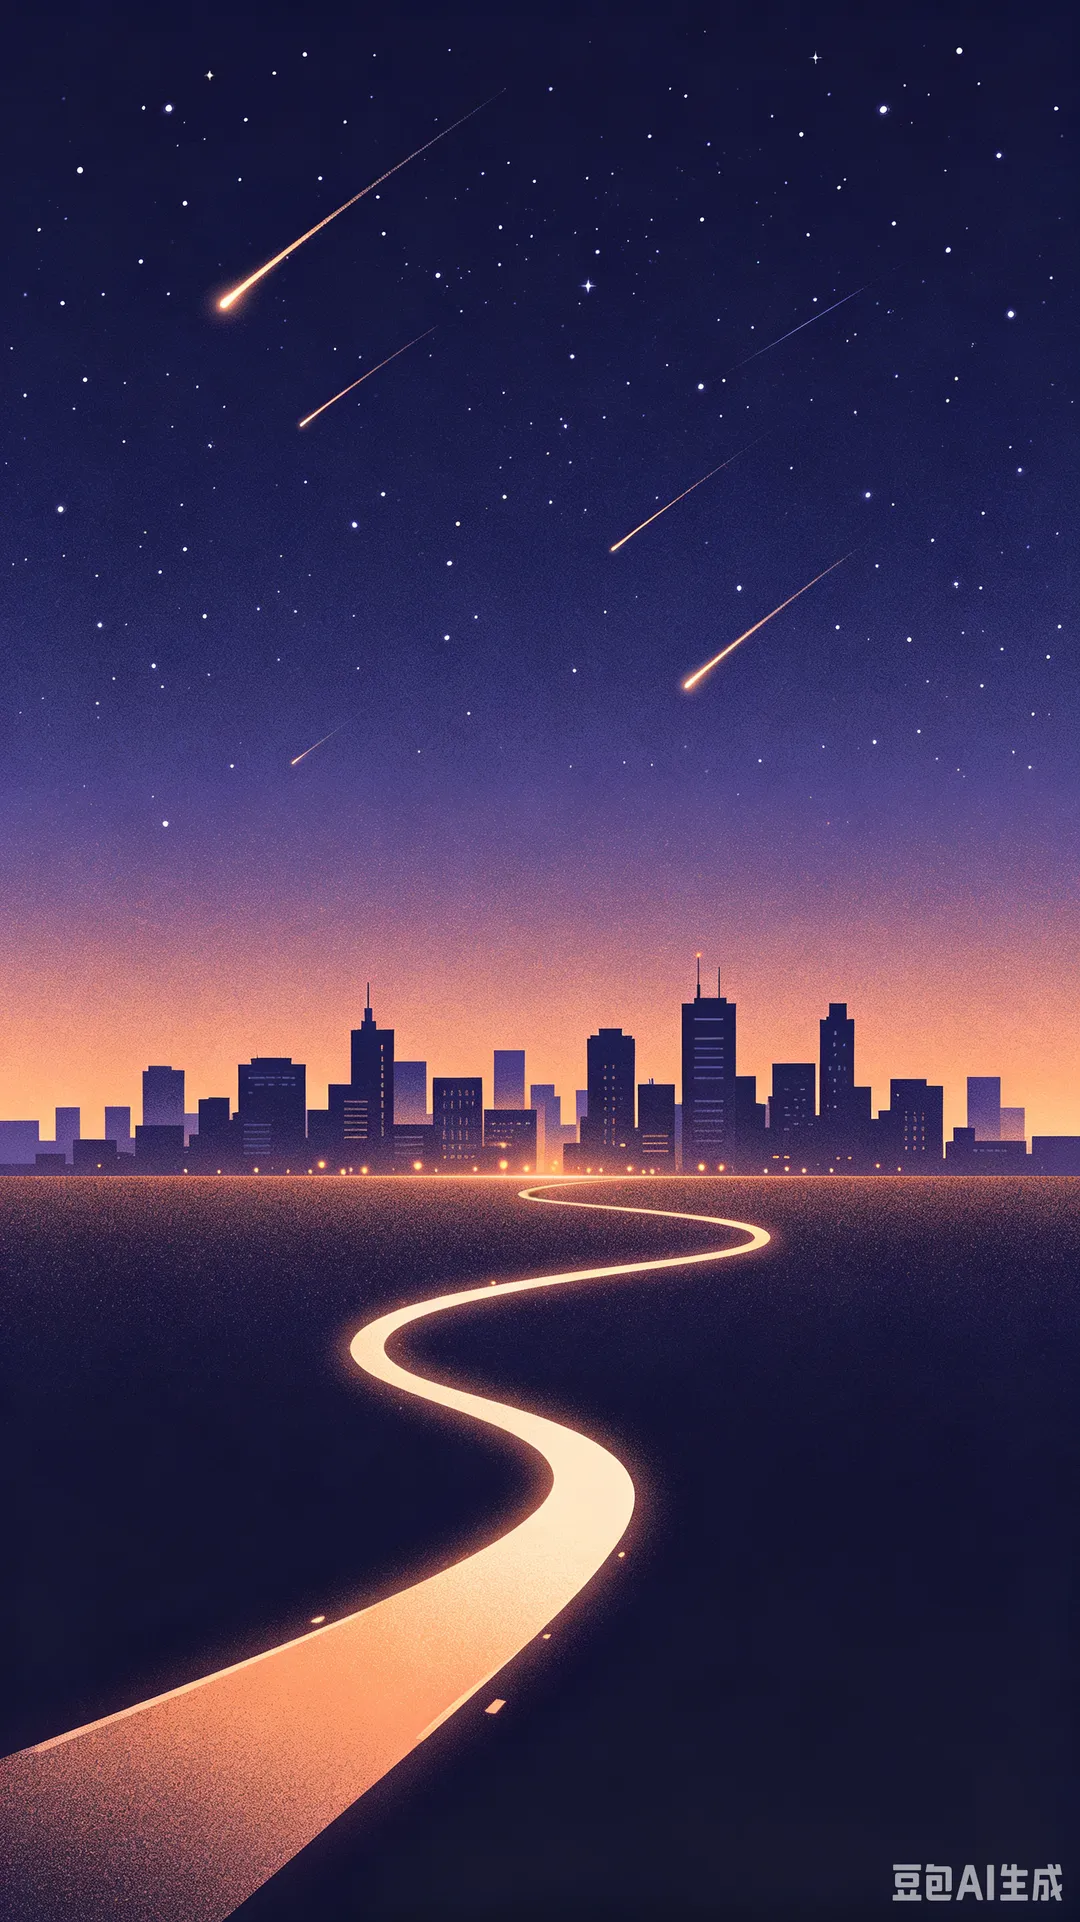
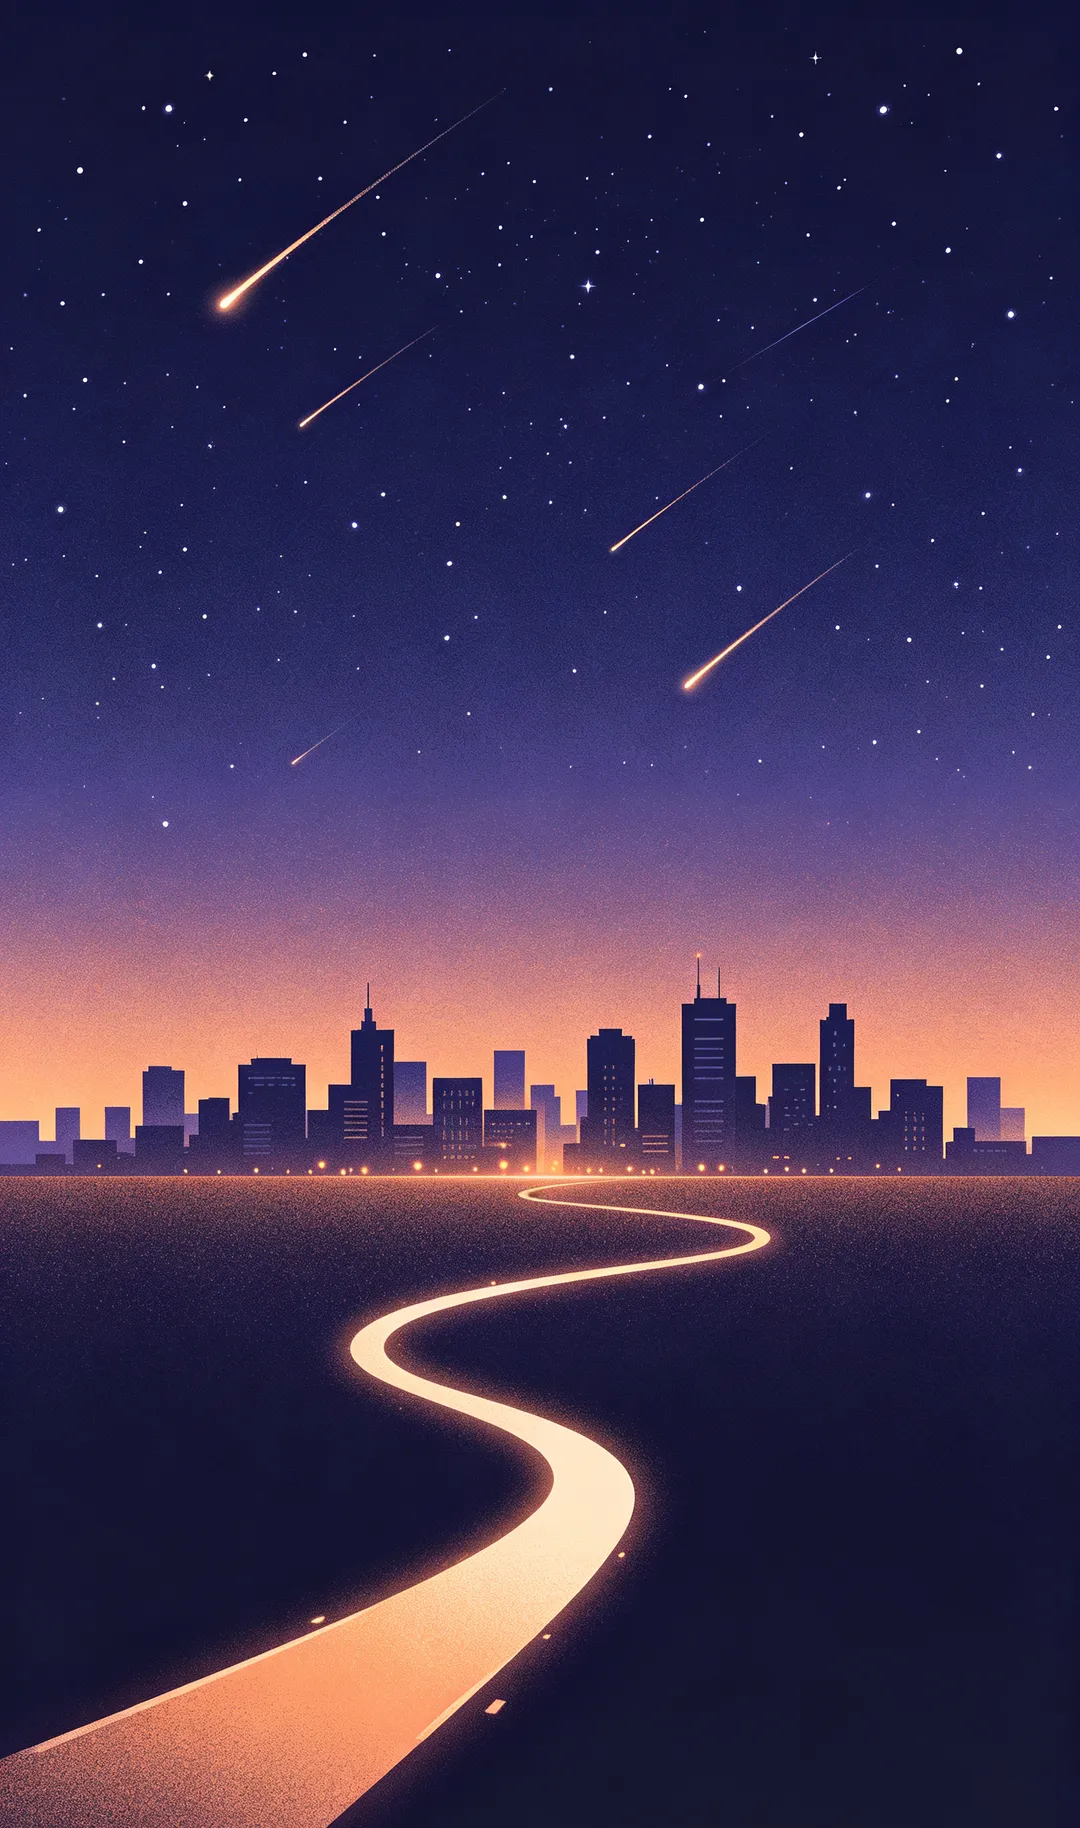
feat(report): 全套 AI 插画全屏背景 + 书法字封面标题（保留姓名）+ 去豆包水印

diff --git a/frontend/src/pages/SpecialReportPage.tsx b/frontend/src/pages/SpecialReportPage.tsx
@@ -162,14 +162,14 @@ function Sub({ children }: { children: React.ReactNode }) {
   );
 }
 
-// ============ 上半屏插画（底部渐变遮罩融入背景，加载失败静默降级） ============
-function TopIllustration({ src }: { src: string }) {
+// ============ 全屏背景插画（深色遮罩保证文字可读，加载失败静默降级回渐变背景） ============
+function FullBgImage({ src }: { src: string }) {
   return (
-    <div className="pointer-events-none absolute inset-x-0 top-0" style={{ height: "42%" }} aria-hidden>
-      <ReportImage src={src} className="h-full w-full" style={{ opacity: 0.85 }} />
+    <div className="pointer-events-none absolute inset-0 overflow-hidden" aria-hidden>
+      <ReportImage src={src} className="h-full w-full" />
       <div
         className="absolute inset-0"
-        style={{ background: "linear-gradient(180deg, rgba(26,26,46,0.15) 0%, rgba(26,26,46,0.25) 55%, #1a1a2e 100%)" }}
+        style={{ background: "linear-gradient(180deg, rgba(26,26,46,0.35) 0%, rgba(26,26,46,0.75) 100%)" }}
       />
     </div>
   );
@@ -188,13 +188,18 @@ function CoverTitle({ name }: { name: string }) {
   }, []);
   if (imgOk) {
     return (
-      <motion.img
-        variants={fadeUp}
-        src="/report/cover-title.png"
-        alt="盛夏战报"
-        className="mt-6 w-full max-w-[320px]"
-        style={{ mixBlendMode: "screen" }}
-      />
+      <>
+        <motion.img
+          variants={fadeUp}
+          src="/report/cover-title.png"
+          alt="盛夏战报"
+          className="mt-6 w-full max-w-[320px]"
+          style={{ mixBlendMode: "screen" }}
+        />
+        <motion.div variants={fadeUp} className="mt-5 font-semibold text-white" style={{ fontSize: "clamp(22px, 6vw, 30px)", letterSpacing: "0.1em" }}>
+          {name}
+        </motion.div>
+      </>
     );
   }
   return (
@@ -499,23 +504,18 @@ export default function SpecialReportPage() {
 
     // 个人分镜（个人 0 拜访但有团队榜时，只展示封面 + 团队 + 结尾）
     if (p.visit_count > 0) {
-    // 2. 拜访数（visits.webp 上半屏插画，底部渐变融入背景）
+    // 2. 拜访数（visits.webp 全屏背景，文字垂直居中）
     list.push({
       key: "visits",
       node: (a) => (
         <>
-          <TopIllustration src="/report/visits.webp" />
-          <PageShell center={false}>
-            {/* 上半屏留给插画（paddingTop 46%），文字区在剩余空间垂直居中 */}
-            <div className="flex h-full w-full flex-col items-center text-center" style={{ paddingTop: "46%" }}>
-              <div className="flex flex-1 flex-col items-center justify-center">
-                <motion.div variants={fadeUp} className="text-white/60" style={{ fontSize: "clamp(15px, 4vw, 18px)" }}>这个夏天，你敲开了</motion.div>
-                <motion.div variants={fadeUp}>
-                  <BigNumber value={p.visit_count} active={a} />
-                </motion.div>
-                <Sub>次客户的门</Sub>
-              </div>
-            </div>
+          <FullBgImage src="/report/visits.webp" />
+          <PageShell>
+            <motion.div variants={fadeUp} className="text-white/60" style={{ fontSize: "clamp(15px, 4vw, 18px)" }}>这个夏天，你敲开了</motion.div>
+            <motion.div variants={fadeUp}>
+              <BigNumber value={p.visit_count} active={a} />
+            </motion.div>
+            <Sub>次客户的门</Sub>
           </PageShell>
         </>
       ),
@@ -548,39 +548,35 @@ export default function SpecialReportPage() {
       });
     }
 
-    // 4. 客户（customer.webp 上半屏插画）
+    // 4. 客户（customer.webp 全屏背景，文字垂直居中）
     list.push({
       key: "customers",
       node: (a) => (
         <>
-          <TopIllustration src="/report/customer.webp" />
-          <PageShell center={false}>
-            {/* 上半屏留给插画，文字区在剩余空间垂直居中 */}
-            <div className="flex h-full w-full flex-col items-center text-center" style={{ paddingTop: "40%" }}>
-              <div className="flex flex-1 flex-col items-center justify-center">
-                <motion.div variants={fadeUp}>
-                  <BigNumber value={p.customer_count} active={a} />
-                </motion.div>
-                <Sub>家客户，记住了你的名字</Sub>
-                {p.top_customers.length > 0 && (
-                  <div className="mt-5 w-full max-w-[320px] space-y-2">
-                    {p.top_customers.slice(0, 5).map((c, i) => (
-                      <motion.div
-                        key={c.name + i}
-                        variants={fadeUp}
-                        className="flex items-center justify-between rounded-xl bg-white/5 px-4 py-2 border border-white/10"
-                      >
-                        <span className="flex items-center gap-3 text-white/90" style={{ fontSize: "clamp(14px, 3.8vw, 16px)" }}>
-                          <span className="text-[#ff9a5a] font-semibold w-5">{i + 1}</span>
-                          <span className="truncate max-w-[180px]">{c.name}</span>
-                        </span>
-                        <span className="text-white/50 text-sm">{c.count} 次</span>
-                      </motion.div>
-                    ))}
-                  </div>
-                )}
+          <FullBgImage src="/report/customer.webp" />
+          <PageShell>
+            <motion.div variants={fadeUp}>
+              <BigNumber value={p.customer_count} active={a} />
+            </motion.div>
+            <Sub>家客户，记住了你的名字</Sub>
+            {p.top_customers.length > 0 && (
+              <div className="mt-6 w-full max-w-[320px] space-y-2.5">
+                {p.top_customers.slice(0, 5).map((c, i) => (
+                  <motion.div
+                    key={c.name + i}
+                    variants={fadeUp}
+                    className="flex items-center justify-between rounded-xl border border-white/10 px-4 py-2.5"
+                    style={{ background: "rgba(13,13,23,0.45)" }}
+                  >
+                    <span className="flex items-center gap-3 text-white/90" style={{ fontSize: "clamp(14px, 3.8vw, 16px)" }}>
+                      <span className="text-[#ff9a5a] font-semibold w-5">{i + 1}</span>
+                      <span className="truncate max-w-[180px]">{c.name}</span>
+                    </span>
+                    <span className="text-white/50 text-sm">{c.count} 次</span>
+                  </motion.div>
+                ))}
               </div>
-            </div>
+            )}
           </PageShell>
         </>
       ),
@@ -640,12 +636,13 @@ export default function SpecialReportPage() {
       });
     }
 
-    // 6. 里程（Runner 从左侧跑入横穿过屏）
+    // 6. 里程（distance.webp 全屏背景，Runner 从左侧跑入横穿过屏）
     const roundTrips = p.distance_km / 2200;
     list.push({
       key: "distance",
       node: (a) => (
         <>
+          <FullBgImage src="/report/distance.webp" />
           {a && (
             <motion.div
               className="pointer-events-none absolute bottom-[12vh] left-0 z-10"
@@ -657,9 +654,7 @@ export default function SpecialReportPage() {
               <RunnerSvg size={56} running />
             </motion.div>
           )}
-          <PageShell center={false}>
-            {/* 垂直居中并整体上移 ~8vh */}
-            <div className="flex h-full w-full flex-col items-center justify-center pb-[8vh] text-center">
+          <PageShell>
             <motion.div variants={fadeUp} className="flex items-baseline gap-2">
               <BigNumber value={p.distance_km} decimals={p.distance_km < 100 ? 1 : 0} active={a} />
               <span className="text-white/70" style={{ fontSize: "clamp(18px, 5vw, 26px)" }}>公里</span>
@@ -671,7 +666,6 @@ export default function SpecialReportPage() {
                 <>相当于绕标准操场 {Math.round(p.distance_km / 0.4)} 圈</>
               )}
             </Sub>
-            </div>
           </PageShell>
         </>
       ),
@@ -785,41 +779,47 @@ export default function SpecialReportPage() {
       });
     }
 
-    // 11. 最忙的一天
+    // 11. 最忙的一天（busiest.webp 全屏背景）
     if (p.busiest_day) {
       list.push({
         key: "busiest",
         node: () => (
-          <PageShell>
-            <motion.div variants={fadeUp} className="font-bold text-white" style={{ fontSize: "clamp(30px, 8.5vw, 46px)" }}>
-              {fmtDate(p.busiest_day!.date)}
-            </motion.div>
-            <Sub>
-              是你最拼的一天，
-              <br />
-              一天跑了 <span className="text-[#ff9a5a] font-semibold">{p.busiest_day!.visit_count}</span> 家
-            </Sub>
-          </PageShell>
+          <>
+            <FullBgImage src="/report/busiest.webp" />
+            <PageShell>
+              <motion.div variants={fadeUp} className="font-bold text-white" style={{ fontSize: "clamp(30px, 8.5vw, 46px)" }}>
+                {fmtDate(p.busiest_day!.date)}
+              </motion.div>
+              <Sub>
+                是你最拼的一天，
+                <br />
+                一天跑了 <span className="text-[#ff9a5a] font-semibold">{p.busiest_day!.visit_count}</span> 家
+              </Sub>
+            </PageShell>
+          </>
         ),
       });
     }
 
-    // 12. 最早出发·窗户画框（earliest_days 前 5 天，兜底 earliest_visit 单窗）
+    // 12. 最早出发·窗户画框（earliest.webp 全屏背景压暗，earliest_days 前 5 天，兜底 earliest_visit 单窗）
     const earliestDays = p.earliest_days && p.earliest_days.length > 0 ? p.earliest_days : p.earliest_visit ? [p.earliest_visit] : [];
     if (earliestDays.length > 0) {
       list.push({
         key: "earliest",
         node: (a) => (
-          <PageShell center={false}>
-            <div className="flex h-full w-full flex-col items-center justify-center text-center">
-              <motion.h2 variants={fadeUp} className="font-bold text-white" style={{ fontSize: "clamp(22px, 6vw, 30px)", lineHeight: 1.6 }}>
-                这些天，城市还没醒
-                <br />
-                你就出发了
-              </motion.h2>
-              <EarliestWindows days={earliestDays} active={a} />
-            </div>
-          </PageShell>
+          <>
+            <FullBgImage src="/report/earliest.webp" />
+            <PageShell center={false}>
+              <div className="flex h-full w-full flex-col items-center justify-center text-center">
+                <motion.h2 variants={fadeUp} className="font-bold text-white" style={{ fontSize: "clamp(22px, 6vw, 30px)", lineHeight: 1.6 }}>
+                  这些天，城市还没醒
+                  <br />
+                  你就出发了
+                </motion.h2>
+                <EarliestWindows days={earliestDays} active={a} />
+              </div>
+            </PageShell>
+          </>
         ),
       });
     }
@@ -1211,11 +1211,13 @@ export default function SpecialReportPage() {
       });
     }
 
-    // 16. 结尾 + 分享卡片
+    // 16. 结尾 + 分享卡片（finale.webp 全屏背景）
     list.push({
       key: "finale",
       node: (a) => (
-        <PageShell>
+        <>
+          <FullBgImage src="/report/finale.webp" />
+          <PageShell>
           {/* 进入时播放一轮烟花 */}
           {a && (
             <div className="pointer-events-none absolute inset-x-0 top-4 flex justify-center" aria-hidden>
@@ -1264,7 +1266,8 @@ export default function SpecialReportPage() {
               {shareBusy ? "生成中…" : "生成分享卡片"}
             </button>
           </motion.div>
-        </PageShell>
+          </PageShell>
+        </>
       ),
     });
 
